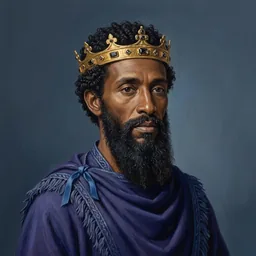
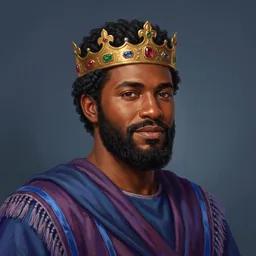
Timeline pictures, round 2: Solomon cropped, Red Sea, Bethel, new portraits, Edomite figures from public-domain art
- United Kingdom: Solomon enthroned with fringes and a ribband of blue, the step lions cropped out (owner's direction)
- Israel in Egypt (Red Sea) and Divided Kingdom (Bethel, 1 Kings 13:1-5) pictures; Life of Christ and Early Church fixed
- Solomon, David, Sarah and Esther portraits replaced; 12 new event portraits added, shown once approved
- Herod Antipas from Herbert's painting (approved); Caesar, Augustus, Constantine and Leo X from public-domain works, awaiting review
- timeline-portraits.json `events` maps shared-name and non-People events to a portrait, still gated on approval
- docs/AVATARS.md 9.5 records round 2, sources and licences

Claude-Session: https://claude.ai/code/session_01SAnhNM5FYpsVePpj5ChjqL
(cherry picked from commit fbda0c0125d18c1288a199de1b7cc6cb00511c42)

diff --git a/app/src/screens/Timeline.tsx b/app/src/screens/Timeline.tsx
@@ -49,7 +49,7 @@ const BASE = import.meta.env.BASE_URL;
  * The others wait on a depiction the assembly has not settled (docs/TIMELINE_PARITY.md) and show
  * the period's colour in its place.
  */
-const PERIOD_PICTURES = new Set(["1", "2", "5", "6", "7", "8", "9", "10", "11", "12"]);
+const PERIOD_PICTURES = new Set(["1", "2", "4", "5", "6", "7", "8", "9", "10", "11", "12"]);
 
 /** An admin's cover or the existing approved period artwork; no image for unapproved periods. */
 function usePeriodPicture(s: TimelineSection) {

diff --git a/docs/AVATARS.md b/docs/AVATARS.md
@@ -370,6 +370,25 @@ means it passed this review.
 | 11 Middle Ages | A pope hands a decree to a monk, a cardinal by (Rome as Edom) | `c530aa6f-9fb3-4187-a402-f27296f30929` (an edit of `42e75672`) | `d2511460`, `95b39dcc` (crosses), `48b21bcc` (a likeness of a modern pope), `42e75672` (a pectoral cross, removed by the edit) | Reviewed |
 | 12 Reformation | A preacher on horseback before a ruined abbey | `a3be71c6-06ea-4c68-bb21-57a76b45ef93` | | Reviewed |
 
+#### Round 2 (3 October 2026)
+
+- **6 United Kingdom**: the owner called Solomon's portrait right but the step lions "little baby lions", then directed "just crop King Solomon's lions out". Shipped: a 4:5 crop of `bd657165-75fe-4f7a-a0ab-60867449ca30` (the throne with fringes and a ribband of blue added to his robe, Numbers 15:38) that keeps Solomon on the throne and leaves the steps out. Not used: `12139983`, `990ba08b` (edits that kept cub-sized lions), `bdceebe4`, `ec9d94d7` (recomposed with full-grown lions; overtaken by the crop).
+- **Solomon's portrait**: fringes and a ribband of blue added, `89baf23f-f145-43d4-b46a-09be69cea8ba` (owner: "fire").
+- **New event portraits** (Higgsfield, the approved portrait style; awaiting the owner's review, not shown in the app until their ids are approved): Noah `9cf8ed5d`, Samson `c7ac714a` (from the approved Samson), Elijah `4a016e1c` (from the period 7 Elijah), Gideon `7a5be852`, Eli `5dad90c2`, Jonathan `9d9b275d`, Rehoboam `b40eb012`, Hezekiah `b039f9d2`, Josiah `b5113799`, Jeremiah `87811f7d`, Daniel `fce0b18b`, Uzziah `4b0f23c6` (replacing `7841c00c`, which came out light-skinned against the brief).
+- **Edomite and Roman figures: images from online** (owner's direction, 3 October 2026: "for all of the edomites you can use images from online … Romans etc"). Only public-domain works are used, cropped square; nothing is generated:
+
+| Event | Work | Source | Status |
+| --- | --- | --- | --- |
+| Herod Antipas | John Rogers Herbert, *John the Baptist Reproving Herod* (1848) | archive.org mirror; painting public domain | **Approved by the owner** ("use h-crop") |
+| Julius Caesar | Peter Paul Rubens, *Julius Caesar* (c. 1625) | Wikimedia Commons `Caesar_by_Rubens.jpg` (PD-Art) | Awaiting review |
+| Augustus Caesar | *Augustus of Prima Porta* | Commons `Statue-Augustus.jpg` (photo released to the public domain by Till Niermann) | Awaiting review |
+| Constantine the Great | Bronze head, Musei Capitolini | Commons `Head_Constantine_Musei_Capitolini_MC1072.jpg` (photo by Jastrow, public domain) | Awaiting review |
+| Pope Leo X | Raphael, *Portrait of Leo X* (1518) | Commons `Pope-leo10.jpg` (PD-Art) | Awaiting review |
+| Herod the Great | J. W. Waterhouse, *Mariamne Leaving the Judgement Seat of Herod* (1887) | archive.org mirror; painting public domain | Candidate only: his face is bowed and hidden |
+
+  James Tissot's *Herod* (Brooklyn Museum) was found and not used: it paints Herod as a dark-skinned man, against the assembly's teaching on Edom.
+- **How they reach the app**: `app/scripts/timeline-portraits.json` `events` maps an event to a portrait where the title names more than one person (Daniel, Jonathan, Uzziah …) or a figure outside People (Caesar, Constantine, Leo X). A mapped portrait still shows only once its id is in `ids` (the test holds this).
+
 ### 9.6 Bible Strong's timeline pictures: what may be reused
 
 Direction (2 October 2026): reuse Bible Strong's images that show only landmarks, landscapes,
